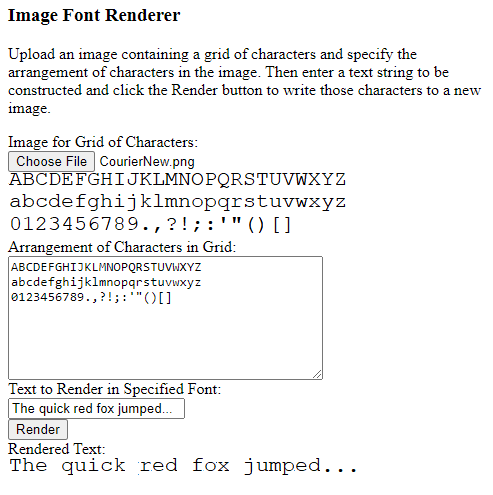
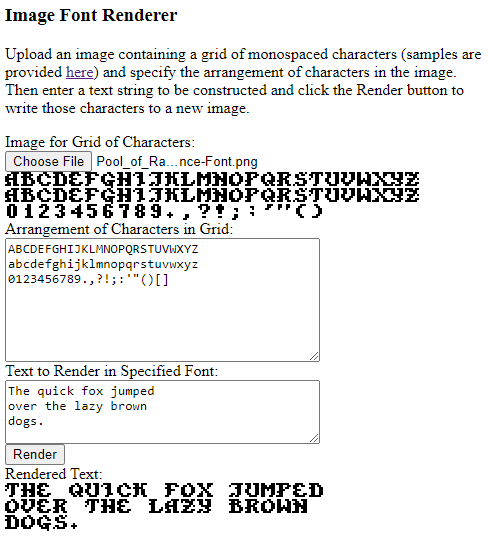
Added new font.  Added a sample fonts page, with a link from the main interface.

Changed region(s): [[0.0, 0.0909, 0.9836, 1.0], [0.0, 0.0, 0.3689, 0.0606], [0.6148, 0.5152, 0.6762, 0.8182]]

diff --git a/Source/ImageFontRenderer.html b/Source/ImageFontRenderer.html
@@ -6,7 +6,8 @@
 	<h3>Image Font Renderer</h3>
 
 	<p>
-		Upload an image containing a grid of characters
+		Upload an image containing a grid of monospaced characters
+		(samples are provided <a href="../Samples/index.html">here</a>)
 		and specify the arrangement of characters in the image.
 		Then enter a text string to be constructed
 		and click the Render button to write those characters

diff --git a/Samples/index.html b/Samples/index.html
@@ -1,0 +1,13 @@
+<html>
+<body>
+
+	<h3>Sample Fonts for ImageFontRenderer:</h3>
+
+	<ul>
+		<li><a href="Consolas.png">Consolas</a></li>
+		<li><a href="Courier_New.png">Courier New</a></li>
+		<li><a href="Pool_of_Radiance-Font.png">Pool of Radiance</a></li>
+	</ul>
+
+</body>
+</html>
